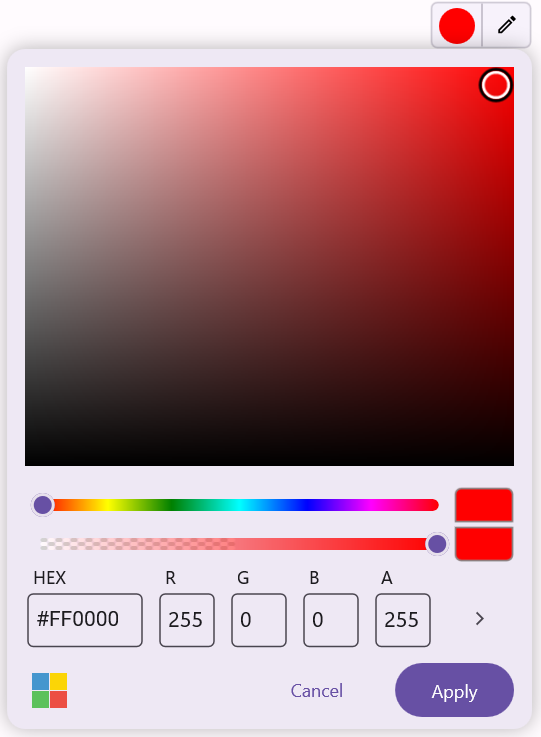
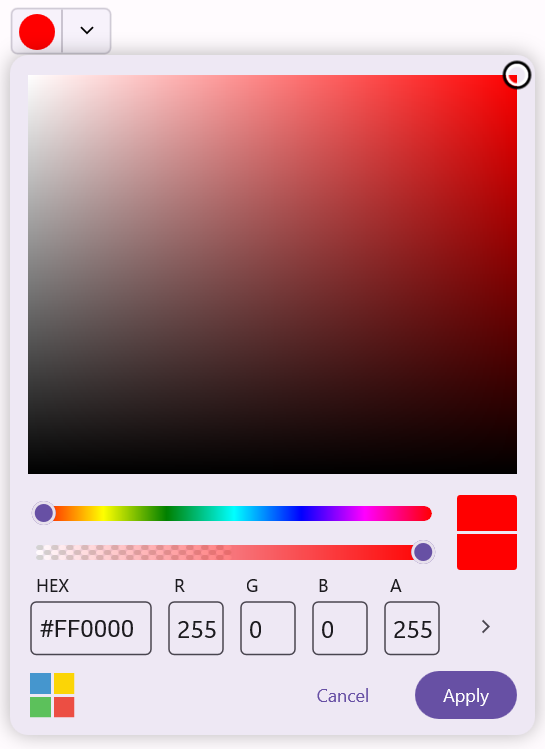
Updated the images

diff --git a/MAUI/ColorPicker/Display-View.md b/MAUI/ColorPicker/Display-View.md
@@ -58,15 +58,16 @@ To customize the appearance of the selected color, use the `SelectedColorTemplat
 
 {% highlight xaml %}
 
-<inputs:SfColorPicker x:Name="colorPicker">
-    <inputs:SfColorPicker.SelectedColorTemplate>
+<editors:SfColorPicker x:Name="colorPicker">
+    <editors:SfColorPicker.SelectedColorTemplate>
         <DataTemplate>
-            <Border BackgroundColor="{Binding SelectedColor}">
-            <Label Text="Looks Good!" FontAttributes="Bold" HorizontalTextAlignment="Center" VerticalTextAlignment="Center"/>
-            </Border>
+            <VerticalStackLayout WidthRequest="70" Background="White">
+                <Label Text="A" HorizontalOptions="Center" TextColor="Black"/>
+                <BoxView HeightRequest="5" WidthRequest="30" Background="{Binding Source={x:Reference colorPicker},Path=SelectedColor}" />
+            </VerticalStackLayout>
         </DataTemplate>
-    </inputs:SfColorPicker.SelectedColorTemplate>
-</inputs:SfColorPicker>
+    </editors:SfColorPicker.SelectedColorTemplate>
+</editors:SfColorPicker>
 
 {% endhighlight %}
 
@@ -74,20 +75,38 @@ To customize the appearance of the selected color, use the `SelectedColorTemplat
 
 colorPicker.SelectedColorTemplate = new DataTemplate(() =>
 {
-    var border = new Border();
-    border.SetBinding(Border.BackgroundColorProperty, "SelectedColor");
-
     var label = new Label
     {
-        Text = "Looks Good!",
-        FontAttributes = FontAttributes.Bold,
-        HorizontalTextAlignment = TextAlignment.Center,
-        VerticalTextAlignment = TextAlignment.Center
+        Text = "A",
+        HorizontalOptions = LayoutOptions.Center,
+        TextColor = Colors.Black
     };
 
-    border.Content = label;
-    return border;
+    // Create the box view and bind its Background to colorPicker.SelectedColor
+    var boxView = new BoxView
+    {
+        HeightRequest = 5,
+        WidthRequest = 30
+    };
+
+    boxView.SetBinding(BoxView.BackgroundProperty, new Binding
+    {
+        Source = colorPicker,
+        Path = "SelectedColor",
+        Mode = BindingMode.OneWay
+    });
+
+    // Create the layout
+    var stackLayout = new VerticalStackLayout
+    {
+        WidthRequest = 70,
+        BackgroundColor = Colors.White,
+        Children = { label, boxView }
+    };
+
+    return stackLayout;
 });
+
 
 Content = colorPicker;    
 
@@ -108,7 +127,7 @@ The drop-down icon of the Color Picker can be customized using the `DropDownButt
 <inputs:SfColorPicker x:Name="colorPicker">
     <inputs:SfColorPicker.DropDownButtonTemplate>
         <DataTemplate>
-            <Label Text="&#xe710;" FontFamily="MauiMaterialAssets" FontSize="14" TextColor="Black" VerticalTextAlignment="Center" HorizontalTextAlignment="Center" />
+            <Label Text="&#xe705;" FontFamily="MauiMaterialAssets" FontSize="14" TextColor="Black" VerticalTextAlignment="Center" HorizontalTextAlignment="Center" />
         </DataTemplate>
     </inputs:SfColorPicker.DropDownButtonTemplate>
 </inputs:SfColorPicker>
@@ -121,7 +140,7 @@ var dropDownTemplate = new DataTemplate(() =>
 {
     return new Label
     {
-        Text = "\ue710", 
+        Text = "\ue705", 
         FontFamily = "MauiMaterialAssets",
         TextColor = Colors.Black,
         FontSize = 14,

diff --git a/MAUI/ColorPicker/Events.md b/MAUI/ColorPicker/Events.md
@@ -37,6 +37,7 @@ The `ColorChanging` event allows you to intercept and cancel a color selection b
 
 private void ColorPicker_ColorChanging(object sender, ColorChangingEventArgs e)
 {
+    // To cancel the color picker change.
     e.Cancel = true;
 }
 
